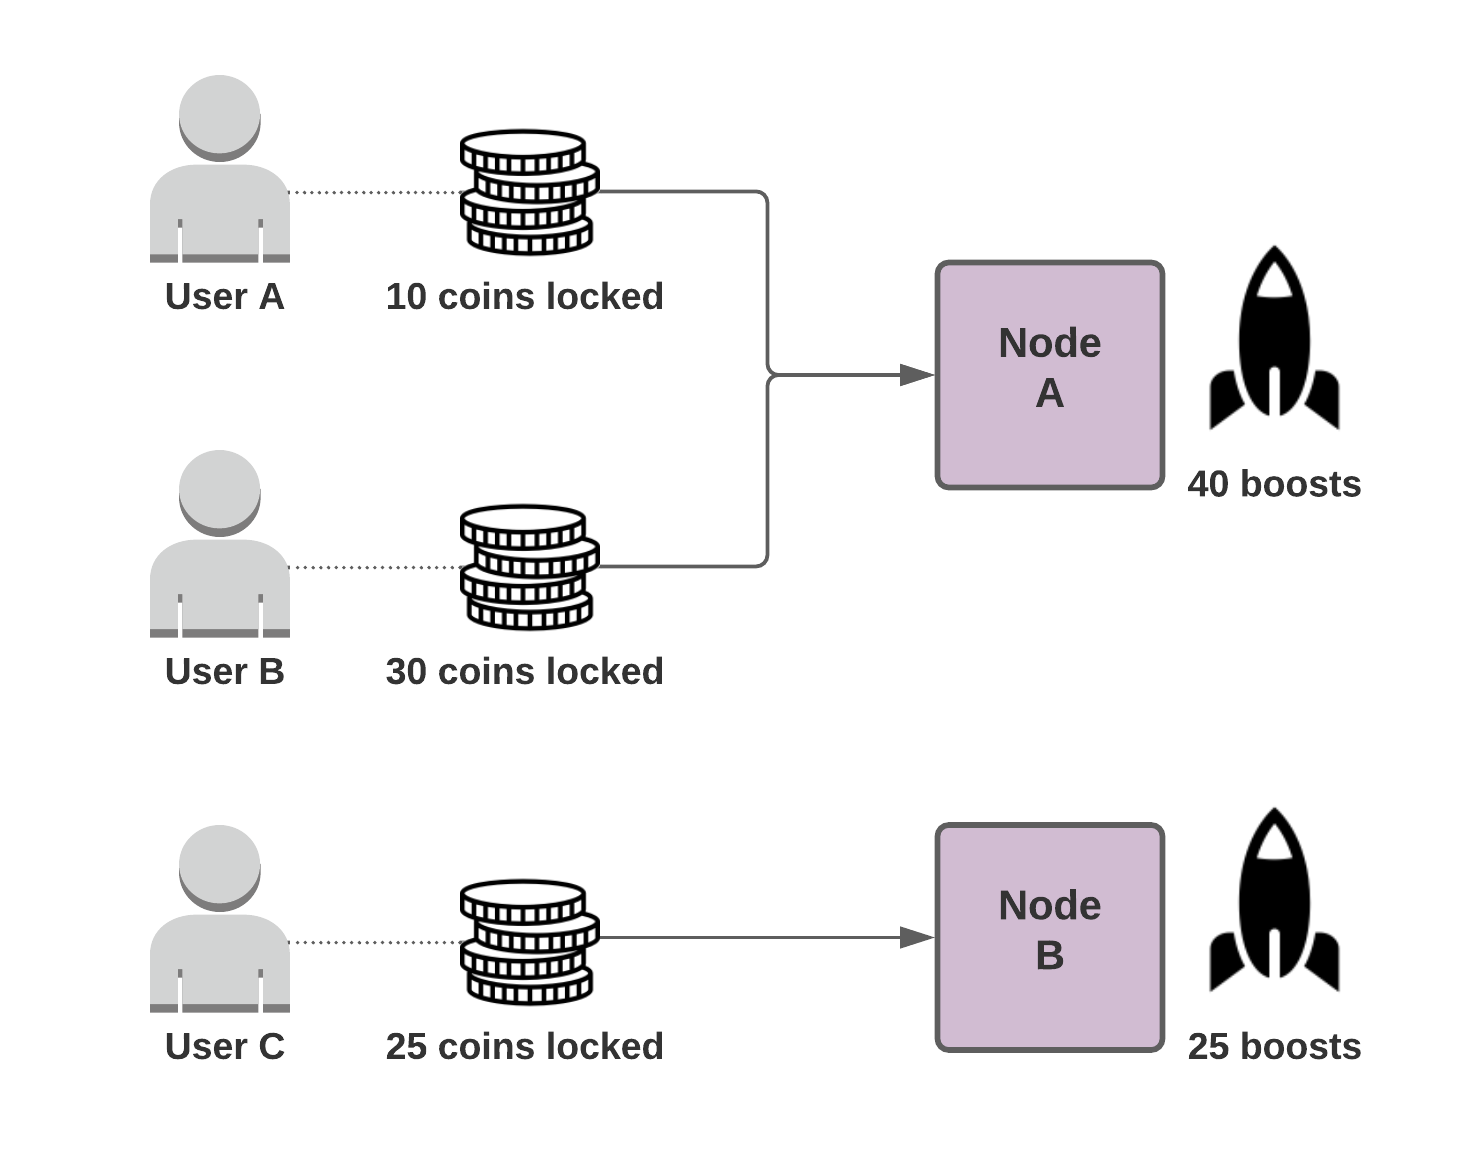
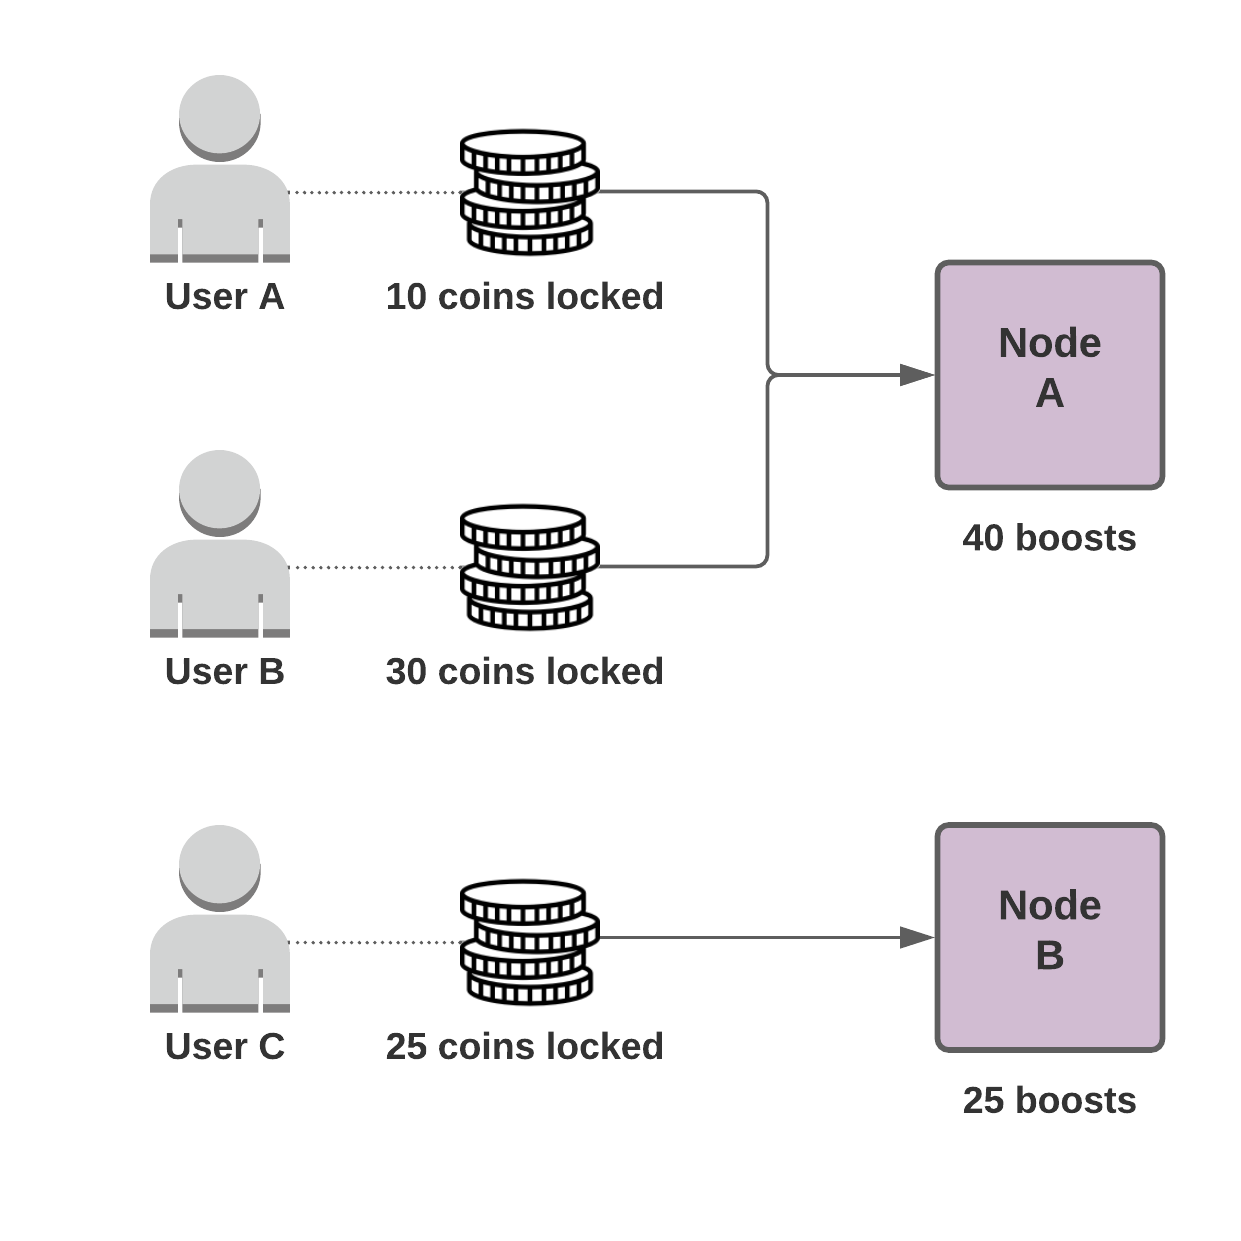
Doc tweaks

diff --git a/src/containers/Governance/GovernanceCoinsVsPoints/index.tsx b/src/containers/Governance/GovernanceCoinsVsPoints/index.tsx
@@ -13,17 +13,17 @@ const GovernanceCoinsVsPoints: FC = () => {
       </p>
 
       <p>
-        Blockchain networks typically depend on transaction fees to both incentivize server owners and also prevent
-        spam. While fees do solve the spam problem by making it expensive to attack or spam the network, fees also
-        introduce a new problem. Imagine needing to pay a fee every time you send an email or change your password. When
-        users are nickel and dimed for every interaction they perform they will stop using those apps. For a blockchain
-        network that would like to support app development, prevent spam, and incentivize server owners, another
-        solution is needed.
+        Blockchain networks typically rely on transaction fees to both incentivize server owners and also prevent spam.
+        While fees do solve the spam problem by making it expensive to attack or spam the network, fees also introduce a
+        new problem. Imagine needing to pay a fee every time you send an email or change your password. When users are
+        nickel and dimed for every interaction they perform they will stop using those apps. For a blockchain network
+        that would like to support app development, prevent spam, and incentivize server owners, another solution is
+        needed.
       </p>
 
       <p>
-        Points solve all of these challenges. By locking up coins, users receive points (which fill back up over time)
-        in return. The specifics of how points solve each problem are as follows:
+        The goal of the point system is to address these challenges. By locking up coins, users receive points (which
+        fill back up over time) in return. The specifics of how points solve each challenge are as follows:
       </p>
 
       <p>
@@ -33,7 +33,7 @@ const GovernanceCoinsVsPoints: FC = () => {
         points they have <br />
         <strong>Incentivize Server Owners</strong> - Although server owners have no direct financial incentive, since
         users can only acquire points by locking up coins, this increases the value of all coins by reducing the overall
-        available supply (less supply on exchanges = more demand = price increases)
+        available supply
       </p>
     </DocContainer>
   );

diff --git a/src/containers/Governance/GovernanceUsernamesAndVotes/index.tsx b/src/containers/Governance/GovernanceUsernamesAndVotes/index.tsx
@@ -8,16 +8,15 @@ const GovernanceUsernamesAndVotes: FC = () => {
   return (
     <DocContainer className="GovernanceUsernamesAndVotes" title="Usernames & Votes" lastUpdated="07 Mar 2021">
       <p>
-        Usernames may be purchased for a fee that will be paid directly to the budget (see{' '}
-        <NavLink to="/governance/budgets">Budgets</NavLink>) and used in place of an account number. Usernames are
-        required to participate in the voting process for both voters and applicants. This will increase transparency in
-        the voting system by enabling usernames to act as identities rather than account numbers.
+        Usernames may be purchased for a fee that will be paid directly to the{' '}
+        <NavLink to="/governance/budgets">budget</NavLink> and used in place of an account number. Usernames are
+        required to participate in the voting process for both voters and applicants. The username system increases
+        transparency in voting by enabling human readable strings to act as identities rather than account numbers.
       </p>
 
       <p>
-        All usernames come with 1 vote by default which can be used to elect members of government (see{' '}
-        <NavLink to="/governance/election-process">Government Election Process</NavLink>). Once a username has been
-        registered, additional votes may be purchased for that username.
+        All usernames come with 1 vote by default. Once a username has been registered, additional votes may be
+        purchased for that username.
       </p>
     </DocContainer>
   );

diff --git a/src/containers/Governance/GovernancePointsAndRefillLogic/index.tsx b/src/containers/Governance/GovernancePointsAndRefillLogic/index.tsx
@@ -1,8 +1,6 @@
 import React, {FC} from 'react';
 
-import {DocContainer, DocImage, TableBorderGrid} from 'components';
-
-import DailyRefillRate from './DailyRefillRate.png';
+import {DocContainer, TableBorderGrid} from 'components';
 
 const GovernancePointsAndRefillLogic: FC = () => {
   return (
@@ -14,7 +12,7 @@ const GovernancePointsAndRefillLogic: FC = () => {
         network grows.
       </p>
       <p>
-        <strong>Time</strong> <br />1 network day = 1,000 blocks (avg # of confirmation blocks per day)
+        <strong>Time</strong> <br />1 network day = 1,000 blocks
       </p>
       <p>
         <strong>Exchange Rate</strong> <br />
@@ -24,13 +22,12 @@ const GovernancePointsAndRefillLogic: FC = () => {
         <strong>Daily Refill Rate</strong> <br />
         +25,000 points per locked coin
       </p>
-      <p>This results in a 100% point refill every ~4 days.</p>
-      <DocImage alt="daily-refill-rate" maxWidth={720} src={DailyRefillRate} />
+      <p>This results in a 100% point refill every 4 network days.</p>
       <TableBorderGrid
         headers={['Events', 'Point Balance']}
         rows={[
           ['User locks 24 coins', '2,400,000 (refill rate of 600,000 points/day)'],
-          ['User spends 2,400,000 points submitting a project proposal', '400,000'],
+          ['User spends 2,000,000 points', '400,000'],
           ['1 network day passes', '1,000,000'],
           ['1 network day passes', '1,600,000'],
         ]}

diff --git a/src/containers/Governance/GovernanceElectionProcess/index.tsx b/src/containers/Governance/GovernanceElectionProcess/index.tsx
@@ -10,11 +10,11 @@ const GovernanceElectionProcess: FC = () => {
       <p>
         Registered users can use points to apply for government positions. Once an application is submitted all
         registered users (excluding the candidate) can begin voting for that candidate. The top X candidates will be
-        elected as the government. The top X members of government are referred to as the “Treasury Board” and are
+        elected as the government. The top X members of government are referred to as the "Treasury Board" and are
         responsible for minting new coins.
       </p>
 
-      <DocImage alt="application and election process" maxWidth={560} src={ApplicationAndElectionProcess} />
+      <DocImage alt="application and election process" maxWidth={520} src={ApplicationAndElectionProcess} />
 
       <p>
         The voting process is an ongoing process. Throughout the voting process, users can change or remove their vote
@@ -30,7 +30,7 @@ const GovernanceElectionProcess: FC = () => {
 
       <DocList variant="ol">
         <li>All members of government must be seated</li>
-        <li>A minimum number of total votes have been cast</li>
+        <li>A minimum number (TBD before launch) of total votes have been cast</li>
       </DocList>
     </DocContainer>
   );

diff --git a/src/containers/Governance/GovernanceOverview/index.tsx b/src/containers/Governance/GovernanceOverview/index.tsx
@@ -28,13 +28,13 @@ const GovernanceOverview: FC = () => {
   return (
     <DocContainer className="GovernanceOverview" title="Overview" lastUpdated="07 Mar 2021">
       <p>
-        Our governance structure enables user voting for all core aspects of the network, both in terms of people and
-        validation nodes. Any user from the public is able to apply to become a governor where other users are then able
-        to vote for their desired candidates. The nodes that are responsible for the validation of blocks are also
-        chosen by the users through a "boosting" system as described in later sections.
+        Our governance structure enables voting for all core aspects of the network, both in terms of people and
+        validation nodes. Any individual is able to apply to become a governor where other individuals are then able to
+        vote for their desired candidates. The nodes that are responsible for the validation of blocks are also chosen
+        by individuals through a "boosting" system as described in later sections.
       </p>
       {renderGlossary()}
-      <DocImage alt="governance-overview" maxWidth={1200} src={Overview} />
+      <DocImage alt="governance-overview" maxWidth={900} src={Overview} />
     </DocContainer>
   );
 };

diff --git a/src/containers/Governance/GovernanceLockedCoinsAndBoosting/index.tsx b/src/containers/Governance/GovernanceLockedCoinsAndBoosting/index.tsx
@@ -22,12 +22,11 @@ const GovernanceLockedCoinsAndBoosting: FC = () => {
         <li>The ability to boost a node of their choosing</li>
       </DocList>
       <p>
-        Points are used to perform various actions on the network. Certain actions (such as submitting project
-        proposals) are available to all registered users while other actions (such as voting on project proposals) are
-        restricted to government members only. Unlike coins, points refill over time. The refill rate is proportional to
-        the amount of coins locked.
+        Points are used to perform various actions on the network. Certain actions are available to all registered users
+        while other actions are restricted to governors only. Unlike coins, points refill over time. The refill rate is
+        proportional to the amount of coins locked.
       </p>
-      <DocImage alt="node boosting" maxWidth={640} src={NodeBoosting} />
+      <DocImage alt="node boosting" maxWidth={540} src={NodeBoosting} />
     </DocContainer>
   );
 };

diff --git a/src/containers/Guide/GuideBlockTypes/index.tsx b/src/containers/Guide/GuideBlockTypes/index.tsx
@@ -38,11 +38,7 @@ const GuideBlockTypes: FC = () => {
       {renderBlockTypeRow('Node Boost', '#f9d2de', 'Vote for a node to be included in the schedule')}
       {renderBlockTypeRow('Schedule', '#99d5ca', 'Addition of a node to the list of upcoming validators')}
       {renderBlockTypeRow('Username Registration', '#ffbbb1', 'The purchase of a username by an account')}
-      {renderBlockTypeRow(
-        'Governor Registration',
-        '#ffdba9',
-        'Enables a registered account to be eligible for governor',
-      )}
+      {renderBlockTypeRow('Governor Application', '#ffdba9', 'Enables an account to be eligible for governor')}
       {renderBlockTypeRow('Vote purchase', '#c7e8ac', 'The purchase of one or more votes for a given account')}
       {renderBlockTypeRow('Governor Vote', '#ffeca9', 'Places one or more vote for a governor')}
     </DocContainer>

diff --git a/src/containers/Governance/GovernanceRatesAndAmounts/index.tsx b/src/containers/Governance/GovernanceRatesAndAmounts/index.tsx
@@ -50,8 +50,6 @@ const GovernanceRatesAndAmounts: FC = () => {
           rows={[
             ['Cast vote for governor', '1 or more votes'],
             ['Update or remove governor application', '1,000,000 points'],
-            ['Submit project proposal', '200,000,000 points'],
-            ['Update or remove project proposal', '1,000,000 points'],
           ]}
         />
       </>
@@ -94,10 +92,6 @@ const GovernanceRatesAndAmounts: FC = () => {
         <li>Beta - 8 members</li>
         <li>By launch - 20 members</li>
         <li>Release funds from the budget - 50% or more signatures required</li>
-        <li>
-          No minimum number of total votes required before the government can take action but we will allow project
-          proposals after 1 week
-        </li>
       </DocList>
 
       <DocSubHeader>Nodes</DocSubHeader>

diff --git a/src/containers/Governance/GovernanceBudgets/index.tsx b/src/containers/Governance/GovernanceBudgets/index.tsx
@@ -16,7 +16,7 @@ const GovernanceBudgets: FC = () => {
         similar to a multisig transaction.
       </p>
 
-      <DocImage alt="budgets" maxWidth={760} src={Budgets} />
+      <DocImage alt="budgets" maxWidth={720} src={Budgets} />
     </DocContainer>
   );
 };
